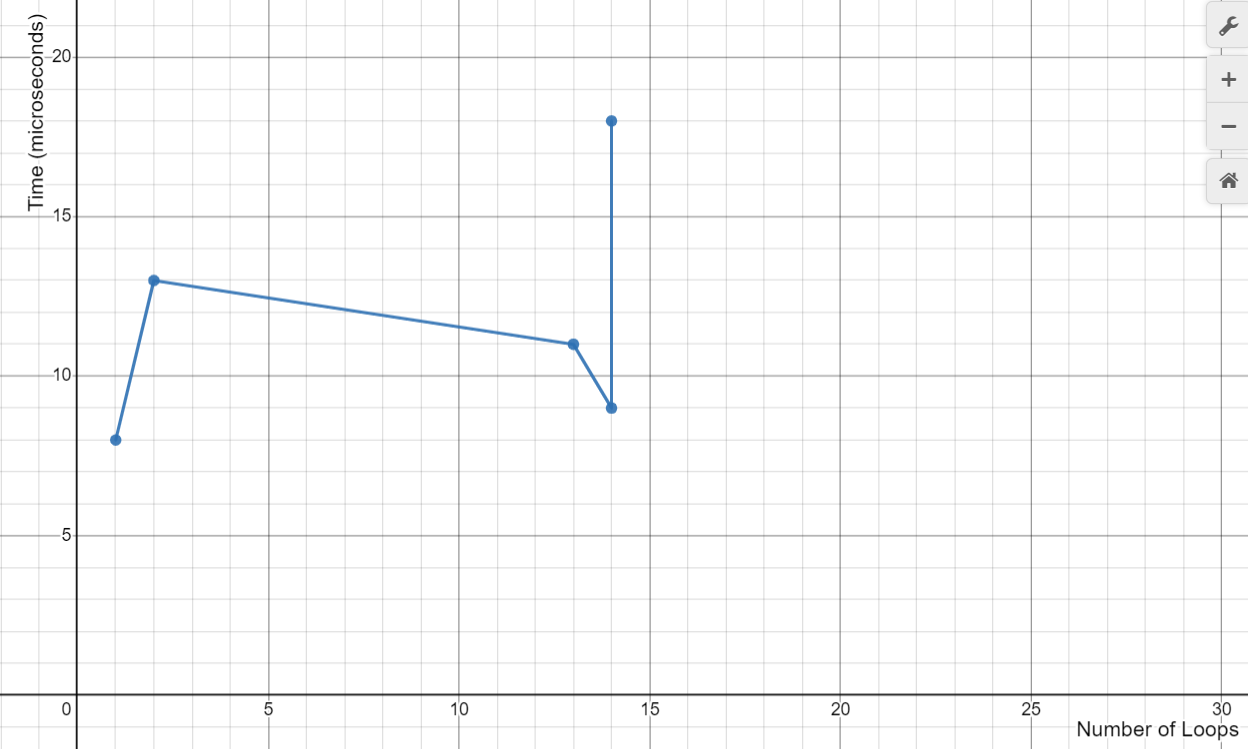
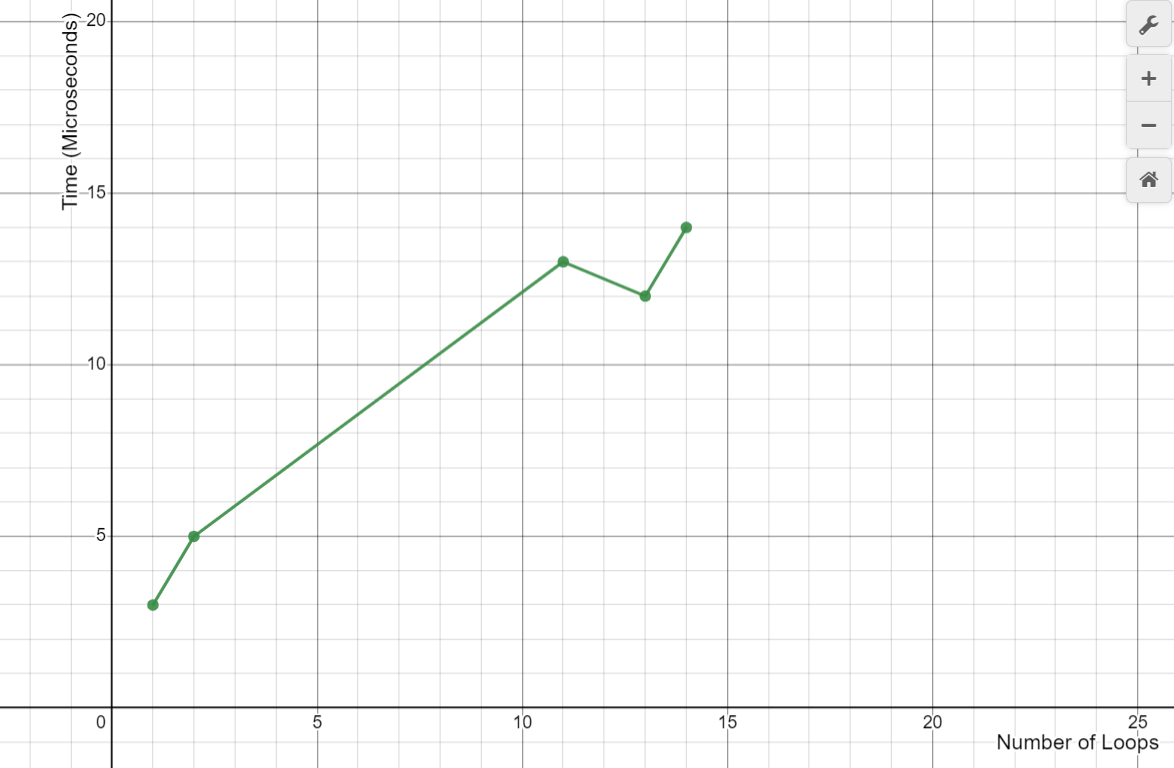
deploy: 26e4c914efbb5180dee2c6c3a0322741a86f6f05

diff --git a/2022/12/14/algo-und-problems.html b/2022/12/14/algo-und-problems.html
@@ -79,7 +79,7 @@ window.onload = wrap_img;
        • <span class="read-time" title="Estimated read time">
     
     
-      6 min read
+      7 min read
     
 </span></p>
 
@@ -375,6 +375,7 @@ False
 </ol>
 </li>
 </ul>
+<p>The first graph appears to be more linear compared to the second graph which resembles the graph of logn. In addition, the points of the first graph are calculated using linear search which iterates through each number in the list one by one until it identifies the number. On the other hand, the second graph's points are calculated using binary search. Binary search cuts the list in half each time, repeating this process until your number is found. Therefore, binary search is much faster than linear search, hence the second graph is much more efficient.</p>
 
 </div>
 </div>
@@ -432,7 +433,7 @@ False
 <div class="output_area">
 
 <div class="output_subarea output_stream output_stdout output_text">
-<pre>Found element after 10000 loops in 1504 microseconds
+<pre>Found element after 10000 loops in 616 microseconds
 Your number was found at 9999
 </pre>
 </div>
@@ -484,7 +485,7 @@ Your number was found at 9999
 
 <span class="n">lt</span> <span class="o">=</span> <span class="nb">list</span><span class="p">(</span><span class="nb">range</span><span class="p">(</span><span class="mi">1</span><span class="p">,</span> <span class="mi">10001</span><span class="p">))</span> <span class="c1"># list with numbers 1-10000</span>
 
-<span class="n">x</span> <span class="o">=</span> <span class="mi">10000</span> <span class="c1"># replace with an integer between 1 and 10000 (I suggest big numbers like 500, 2000, so on)</span>
+<span class="n">x</span> <span class="o">=</span> <span class="mi">100</span> <span class="c1"># replace with an integer between 1 and 10000 (I suggest big numbers like 500, 2000, so on)</span>
 
 <span class="n">binary_search</span><span class="p">(</span><span class="n">lt</span><span class="p">,</span> <span class="n">x</span><span class="p">)</span> <span class="c1"># runs procedure</span>
 </pre></div>
@@ -499,7 +500,7 @@ Your number was found at 9999
 <div class="output_area">
 
 <div class="output_subarea output_stream output_stdout output_text">
-<pre>Element found after 14 loops in 9 microseconds
+<pre>Element found after 13 loops in 22 microseconds
 </pre>
 </div>
 </div>
@@ -509,7 +510,7 @@ Your number was found at 9999
 
 
 <div class="output_text output_subarea output_execute_result">
-<pre>9999</pre>
+<pre>99</pre>
 </div>
 
 </div>
@@ -530,6 +531,45 @@ Your number was found at 9999
 </div>
 </div>
 </div>
+    
+    
+<div class="cell border-box-sizing code_cell rendered">
+<div class="input">
+
+<div class="inner_cell">
+    <div class="input_area">
+<div class=" highlight hl-ipython3"><pre><span></span><span class="k">def</span> <span class="nf">isPrime</span><span class="p">(</span><span class="n">x</span><span class="p">):</span>
+    <span class="k">for</span> <span class="n">i</span> <span class="ow">in</span> <span class="p">(</span><span class="mi">2</span><span class="p">,</span> <span class="n">x</span><span class="o">-</span><span class="mi">1</span><span class="p">):</span> <span class="c1">#each number until x</span>
+        <span class="k">if</span> <span class="n">x</span> <span class="o">%</span> <span class="n">i</span> <span class="o">==</span> <span class="mi">0</span><span class="p">:</span> <span class="c1">#tests to see if the remainder is 0</span>
+            <span class="k">return</span> <span class="kc">False</span>
+    <span class="k">return</span> <span class="kc">True</span>
+
+<span class="n">isPrime</span><span class="p">(</span><span class="mi">10</span><span class="p">)</span>
+</pre></div>
+
+    </div>
+</div>
+</div>
+
+<div class="output_wrapper">
+<div class="output">
+
+<div class="output_area">
+
+
+
+<div class="output_text output_subarea output_execute_result">
+<pre>False</pre>
+</div>
+
+</div>
+
+</div>
+</div>
+
+</div>
+    
+
 <div class="cell border-box-sizing text_cell rendered">
 <div class="inner_cell">
 <div class="text_cell_render border-box-sizing rendered_html">
@@ -540,6 +580,28 @@ Your number was found at 9999
 </div>
 </div>
 </div>
+    
+    
+<div class="cell border-box-sizing code_cell rendered">
+<div class="input">
+
+<div class="inner_cell">
+    <div class="input_area">
+<div class=" highlight hl-ipython3"><pre><span></span><span class="kn">import</span> <span class="nn">random</span>
+<span class="n">x</span> <span class="o">=</span> <span class="mi">1</span>
+<span class="n">y</span> <span class="o">=</span> <span class="n">x</span> <span class="o">+</span> <span class="n">random</span><span class="o">.</span><span class="n">randint</span><span class="p">(</span><span class="mi">1</span><span class="p">,</span> <span class="mi">100</span><span class="p">)</span>
+
+<span class="k">while</span> <span class="n">x</span> <span class="o">&lt;</span> <span class="n">y</span><span class="p">:</span>
+    <span class="n">y</span> <span class="o">=</span> <span class="n">x</span> <span class="o">-</span> 
+</pre></div>
+
+    </div>
+</div>
+</div>
+
+</div>
+    
+
 </div>
 
 
